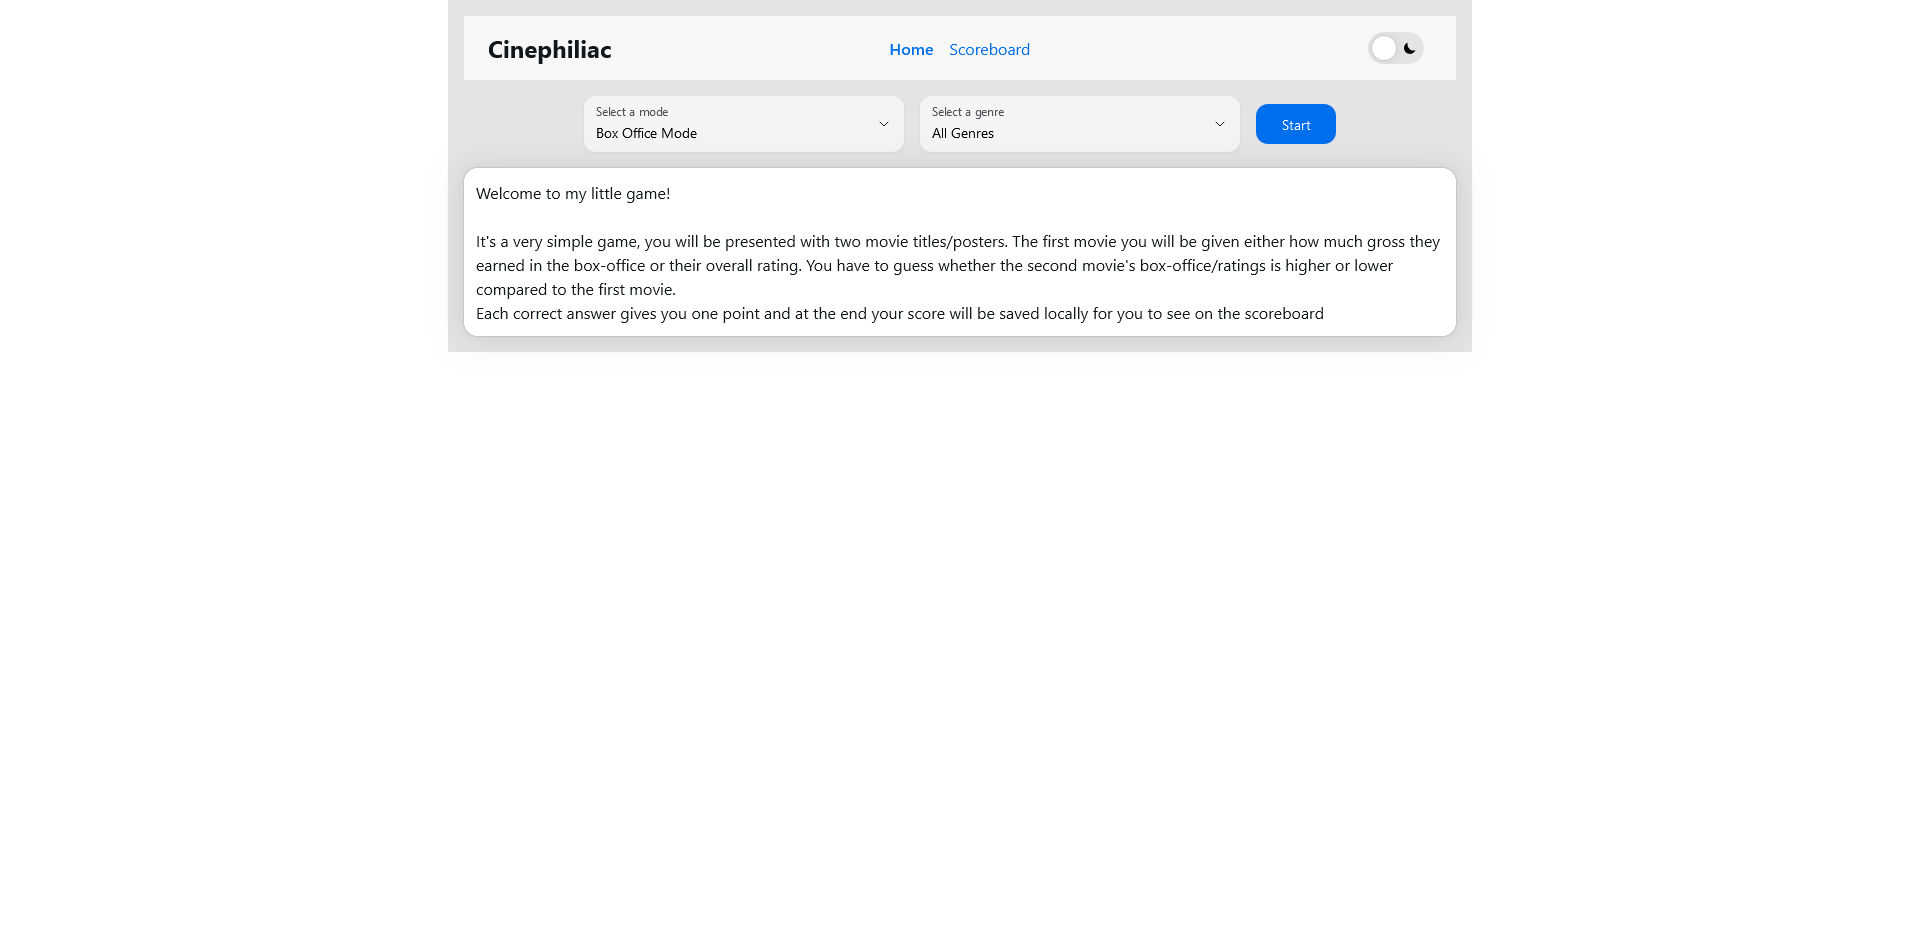
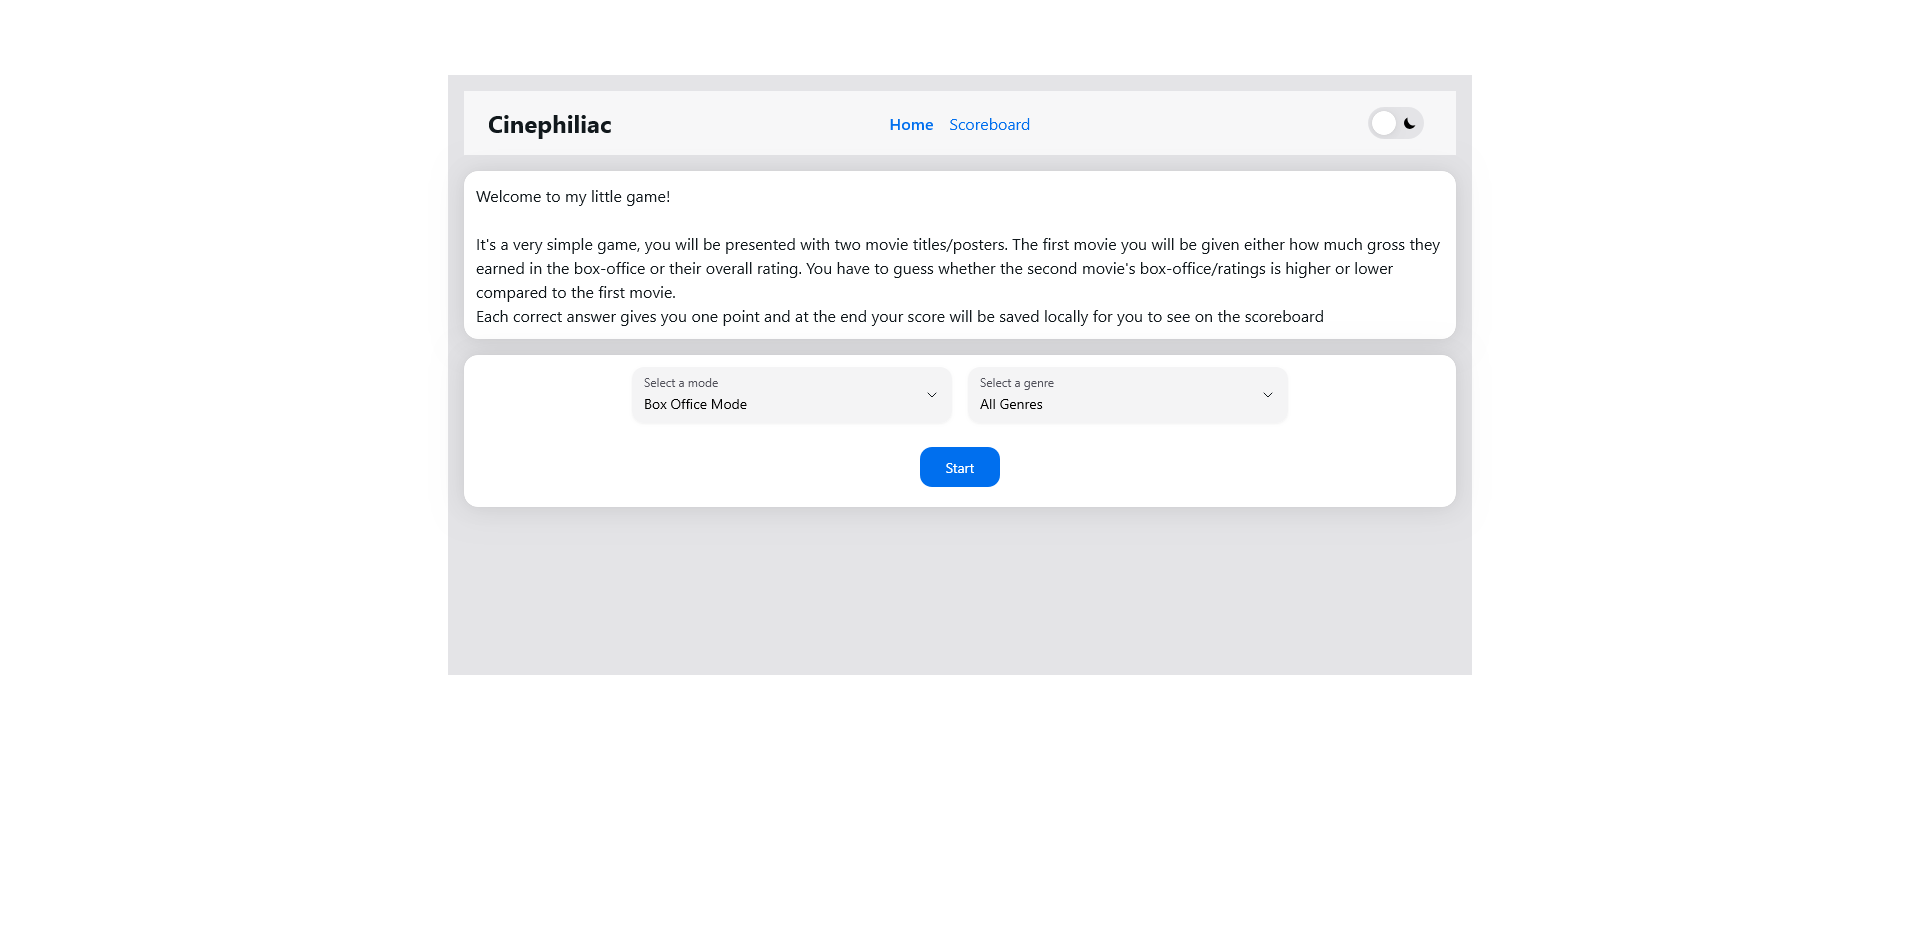
chore: clean up projects, update links, and add asset typing (#46)
* chore(projects): removed old projects

* chore(projects): updated projects with correct links and new image

- reminder nurse & studdy buddy live links been updated from heroku to render.
- cinephiliac preview updated to reflect current page

* chore(typing): added typing to assets

diff --git a/src/assets/project-list.ts b/src/assets/project-list.ts
@@ -2,24 +2,27 @@ import {
   // project previews
   cinephiliacPreview,
   studdyBuddyPreview,
-  techiesBlogPreview,
-  textEditorPWAPreview,
-  noteTakerPreview,
-  weatherForecasterPreview,
   reminderNursePreview,
   // tech icons
   reactIcon,
   sequelizeIcon,
   apolloGraphqlIcon,
-  htmlIcon,
-  pwaIcon,
   mongoDBIcon,
   expressJSIcon,
   framerMotionIcon,
   nodeJSIcon,
   tailwindIcon,
   typescriptIcon,
+  type ImageType,
 } from './images';
+
+type ProjectType = {
+  title: string;
+  githubLink: string;
+  deployedLink: string;
+  img: ImageType;
+  tech: ImageType[];
+};
 
 // template
 // {
@@ -33,11 +36,11 @@ import {
 
 const githubLink = 'https://github.com/NicolasFlamel';
 
-const projects = [
+const projects: ProjectType[] = [
   {
     title: 'Reminder Nurse',
     githubLink: githubLink + '/Reminder-Nurse',
-    deployedLink: 'https://reminder-nurse-3000.herokuapp.com/',
+    deployedLink: 'https://reminder-nurse.onrender.com/',
     img: reminderNursePreview,
     tech: [
       reactIcon,
@@ -50,7 +53,7 @@ const projects = [
   {
     title: 'Studdy Buddy',
     githubLink: githubLink + '/Studdy-Buddy',
-    deployedLink: 'https://studdy-buddy.herokuapp.com/',
+    deployedLink: 'https://studdy-buddy-0bth.onrender.com/',
     img: studdyBuddyPreview,
     tech: [sequelizeIcon, expressJSIcon, nodeJSIcon],
   },
@@ -60,34 +63,6 @@ const projects = [
     deployedLink: 'https://nicolasflamel.github.io/cinephiliac-react/',
     img: cinephiliacPreview,
     tech: [reactIcon, typescriptIcon, framerMotionIcon, tailwindIcon],
-  },
-  {
-    title: 'Weather Forecaster',
-    githubLink: githubLink + '/weather-forecaster-react',
-    deployedLink: 'https://nicolasflamel.github.io/weather-forecaster-react/',
-    img: weatherForecasterPreview,
-    tech: [reactIcon, typescriptIcon],
-  },
-  {
-    title: 'The Techies Blog',
-    githubLink: githubLink + '/CMS-style-Blog-Site',
-    deployedLink: 'https://the-techies-blog.herokuapp.com/',
-    img: techiesBlogPreview,
-    tech: [sequelizeIcon, expressJSIcon, nodeJSIcon],
-  },
-  {
-    title: 'Text-Editor - PWA',
-    githubLink: githubLink + '/Text-Editor---PWA',
-    deployedLink: 'https://text-editor-pwa-3000.herokuapp.com/',
-    img: textEditorPWAPreview,
-    tech: [htmlIcon, pwaIcon],
-  },
-  {
-    title: 'Note Taker',
-    githubLink: githubLink + '/Note-Taker',
-    deployedLink: 'https://note-taker-3010.herokuapp.com/',
-    img: noteTakerPreview,
-    tech: [htmlIcon],
   },
 ];
 

diff --git a/src/assets/images/index.tsx b/src/assets/images/index.tsx
@@ -1,11 +1,7 @@
 // project previews
 import cinephiliacPreviewObj from './project-previews/cinephiliac-preview.png';
-import noteTakerPreviewObj from './project-previews/note-taker-preview.png';
 import reminderNursePreviewObj from './project-previews/reminder-nurse-preview.jpg';
 import studdyBuddyPreviewObj from './project-previews/studdy-buddy-preview.jpg';
-import techiesBlogPreviewObj from './project-previews/techies-blog-preview.png';
-import textEditorPWAPreviewObj from './project-previews/text-editor-pwa.png';
-import weatherForecasterPreviewObj from './project-previews/weather-forecaster-preview.jpg';
 // icons
 import {
   apiIconObj,
@@ -34,6 +30,10 @@ import githubObj from './social/github.svg';
 import linkedinObj from './social/linkedin.svg';
 import stackOverflowObj from './social/stack-overflow.svg';
 
+export type ImageType = {
+  src: string;
+  alt: string;
+};
 // Previews
 export const cinephiliacPreview = {
   src: cinephiliacPreviewObj,
@@ -42,22 +42,6 @@ export const cinephiliacPreview = {
 export const studdyBuddyPreview = {
   src: studdyBuddyPreviewObj,
   alt: 'Studdy Buddy preview',
-};
-export const techiesBlogPreview = {
-  src: techiesBlogPreviewObj,
-  alt: 'Techies Blog preview',
-};
-export const textEditorPWAPreview = {
-  src: textEditorPWAPreviewObj,
-  alt: 'Text Editor - PWA preview',
-};
-export const noteTakerPreview = {
-  src: noteTakerPreviewObj,
-  alt: 'Note Taker preview',
-};
-export const weatherForecasterPreview = {
-  src: weatherForecasterPreviewObj,
-  alt: 'Weather Forecaster preview',
 };
 export const reminderNursePreview = {
   src: reminderNursePreviewObj,
